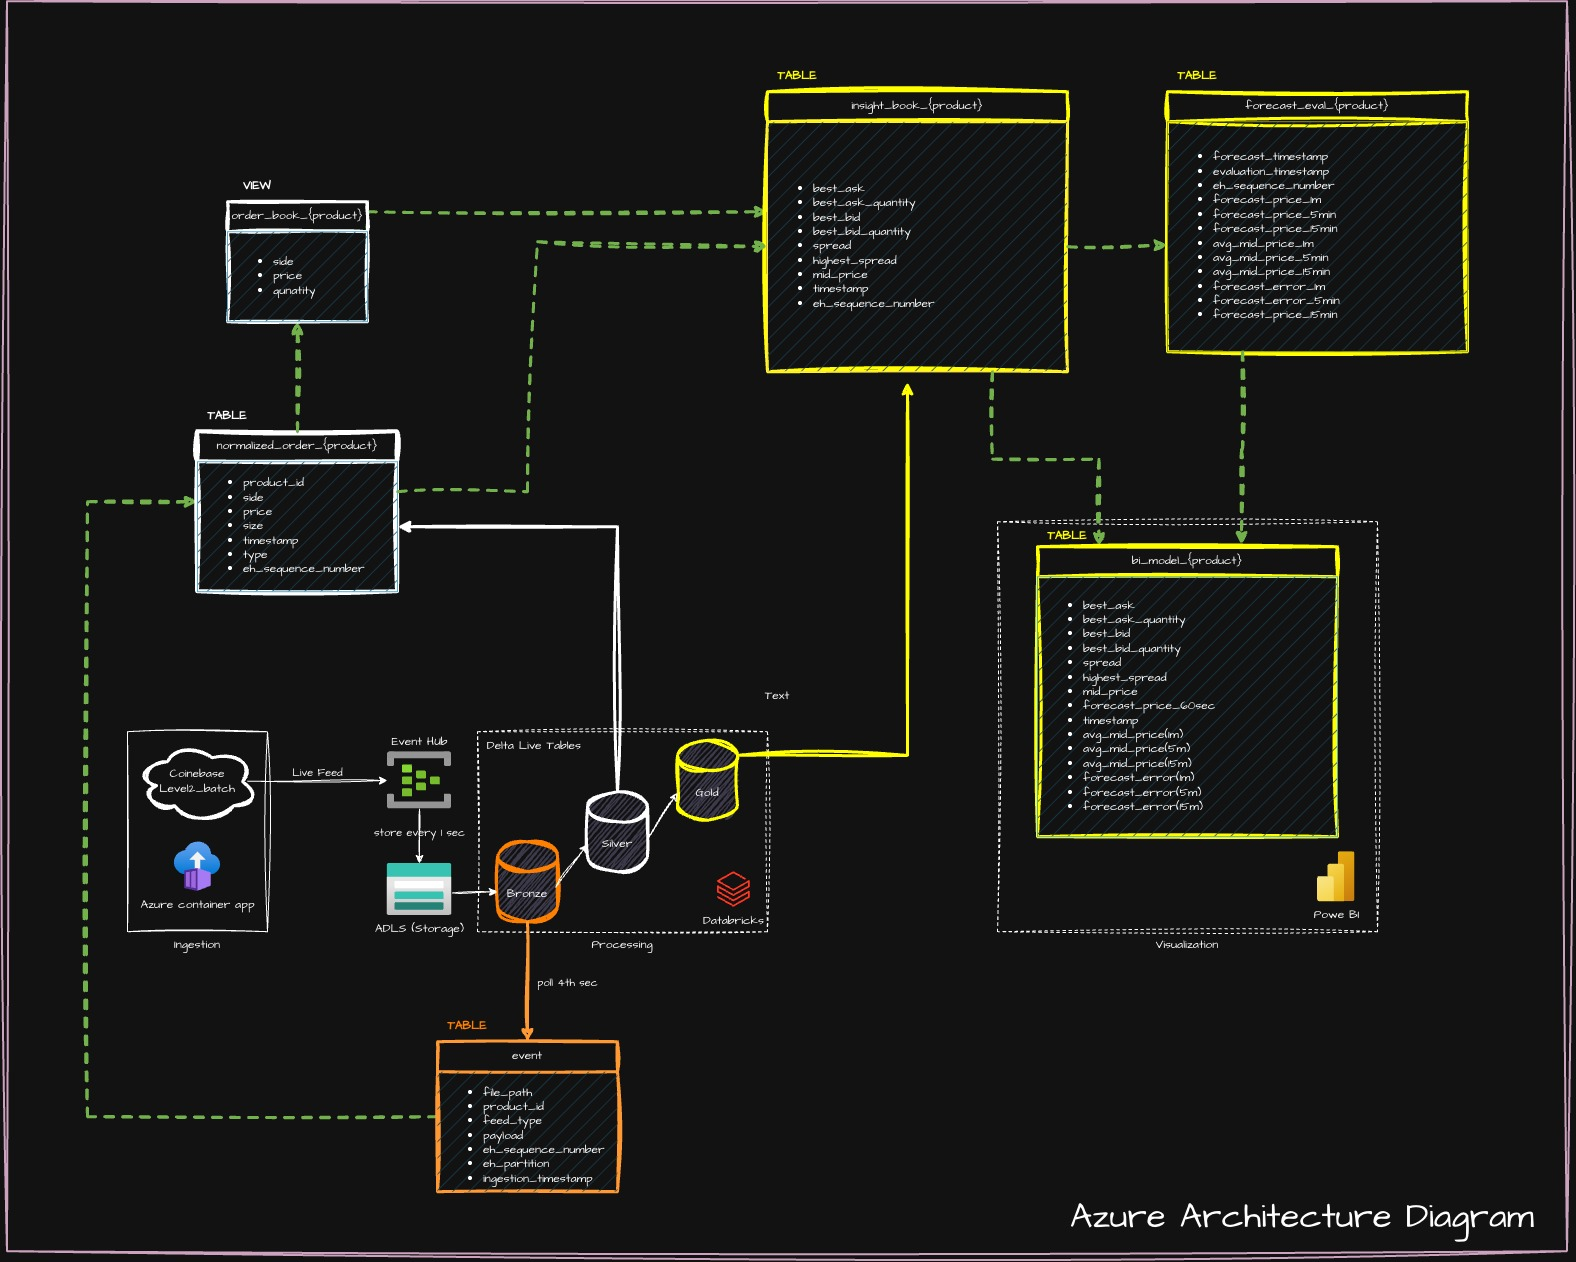
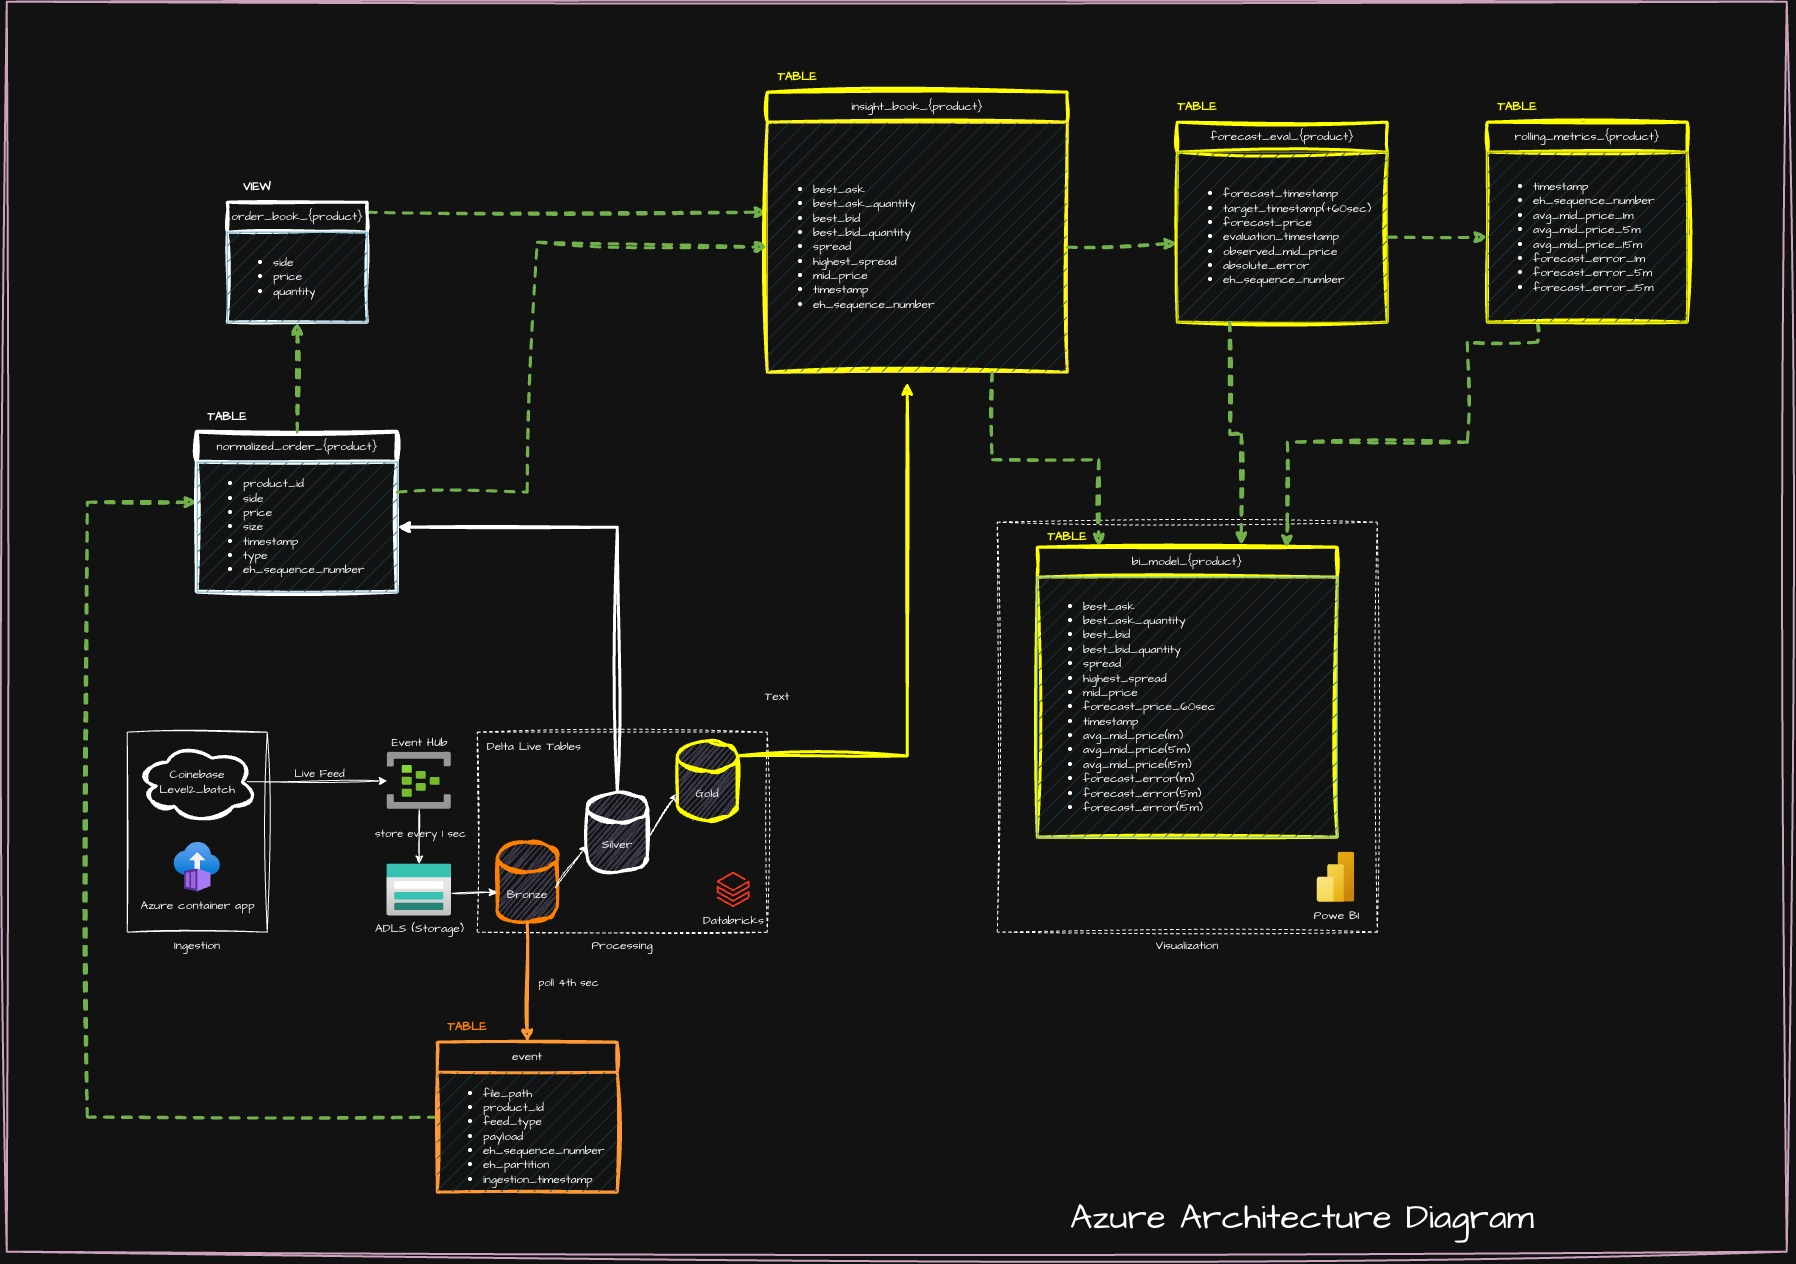
Update print interval to 4 seconds in CLI for improved responsiveness

diff --git a/src/marketdata/cli.py b/src/marketdata/cli.py
@@ -20,7 +20,7 @@ from .bronze.feed import CoinbaseFeed
 from .pipeline import Pipeline
 from .silver.normalize import parse_message
 
-PRINT_INTERVAL_SECONDS = 5
+PRINT_INTERVAL_SECONDS = 4
 CONSUMER_POLL_SECONDS = 4
 CONSUMER_OBJECT_BATCH_SIZE = 8
 

diff --git a/docs/azure-architecture.md b/docs/azure-architecture.md
@@ -63,15 +63,19 @@ schedule. The five-second refresh requirement from Part 1 does not apply here.
   Emit one observation per complete feed message, not one per normalized
   price-level row, to avoid intermediate and inconsistent book snapshots.
 6. For each forecast origin, the forecasting process writes one row to
-  `gold.forecast_eval_{product}` with 1-, 5-, and 15-minute forecasts and the
-  time-weighted rolling mid-price averages available at that origin. When
-  valid observations arrive at or after each horizon target, it calculates
-  the absolute forecast error and updates the corresponding error field and
-  `evaluation_timestamp`. Errors for horizons not yet reached remain null.
+  `gold.forecast_eval_{product}` with one 60-second-ahead prediction and its
+  target timestamp. At the first valid observation at or after the target,
+  it records the observed mid-price, absolute forecast error, and evaluation
+  timestamp. Evaluation fields remain null until the forecast is scored.
+  For each metric observation, it also writes
+  `gold.rolling_metrics_{product}` with time-weighted rolling mid-price
+  averages and mean absolute forecast errors over trailing 1-, 5-, and
+  15-minute windows.
 7. Power BI or another consumer queries the Gold tables through Databricks SQL.
   It can show current observations from `gold.insight_book_{product}` and
-  forecasts, averages, and evaluated errors from
-  `gold.forecast_eval_{product}`. Serving can be scheduled or batched.
+  individual predictions and evaluated errors from
+  `gold.forecast_eval_{product}`, plus rolling averages and forecast accuracy
+  from `gold.rolling_metrics_{product}`. Serving can be scheduled or batched.
 
 A Bronze envelope can look like:
 
@@ -101,16 +105,30 @@ containing the message.
 | `silver.normalized_order_{product}` | One normalized price-level change | `side`, `price`, `size`<br>`timestamp`, `type`<br>`eh_sequence_number` |
 | `silver.order_book_{product}` | One current price level per product/side/price | `side`, `price`, `quantity` |
 | `gold.insight_book_{product}` | One metric observation per processed event | `eh_sequence_number`, `timestamp`<br>`best_bid`, `best_bid_quantity`<br>`best_ask`, `best_ask_quantity`<br>`spread`, `highest_spread`, `mid_price` |
-| `gold.forecast_eval_{product}` | One forecast record per forecast origin | `eh_sequence_number`, `forecast_timestamp`, `evaluation_timestamp`<br>`forecast_price_1m`, `forecast_price_5min`, `forecast_price_15min`<br>`avg_mid_price_1m`, `avg_mid_price_5min`, `avg_mid_price_15min`<br>`forecast_error_1m`, `forecast_error_5min`, `forecast_error_15min` |
+| `gold.forecast_eval_{product}` | One 60-second-ahead forecast per forecast origin | `eh_sequence_number`, `forecast_timestamp`, `target_timestamp`<br>`forecast_price`, `evaluation_timestamp`, `observed_mid_price`, `absolute_error` |
+| `gold.rolling_metrics_{product}` | One rolling-metric record per metric observation | `eh_sequence_number`, `timestamp`<br>`avg_mid_price_1m`, `avg_mid_price_5min`, `avg_mid_price_15min`<br>`forecast_error_1m`, `forecast_error_5min`, `forecast_error_15min` |
 
 `gold.insight_book_{product}` stores observations, not rolling-window
-averages. Each row in `gold.forecast_eval_{product}` stores the three
-predictions and rolling mid-price averages as of `forecast_timestamp`.
+averages. Each row in `gold.forecast_eval_{product}` stores one prediction
+made at `forecast_timestamp` for `target_timestamp = forecast_timestamp +
+60 seconds`.
 
-Evaluate each horizon at the first valid observed mid-price at or after its
-target time. Populate that horizon's forecast error when evaluated; leave
-unevaluated errors null. `evaluation_timestamp` records when the most recently
-evaluated horizon was scored and advances as later horizons become due.
+Evaluate the forecast at the first valid observed mid-price at or after its
+target time. Set `evaluation_timestamp` to that observation's timestamp and
+`absolute_error` to `abs(forecast_price - observed_mid_price)`. Leave
+`evaluation_timestamp`, `observed_mid_price`, and `absolute_error` null while
+the forecast is pending. If observations are delayed, evaluation can occur
+later than the target; retain both timestamps to make that delay visible.
+
+`gold.rolling_metrics_{product}` stores metrics as of `timestamp`. The
+mid-price averages are time-weighted over their respective trailing windows.
+Each `forecast_mae_*` is the arithmetic mean of absolute errors whose
+`evaluation_timestamp` falls within that trailing window. All predictions
+being scored have the same 60-second horizon: the 1-, 5-, and 15-minute labels
+describe evaluation-history windows, not additional forecast horizons.
+Pending forecasts do not contribute. A window with no evaluated forecasts
+has a null MAE; during startup, use available errors without waiting for a
+full window of history.
 
 Assume each Coinbase snapshot contains the product's complete, non-empty
 bid/ask book. Updates contain changed levels; size zero removes a price level.
@@ -136,7 +154,8 @@ checkpoint containing each product's book and metric state, plus the last
 committed `eh_sequence_number` per Event Hubs partition. Commit state and
 progress together so replay neither skips accepted broker records nor applies
 the same record twice. Preserve recent valid mid-price samples, pending
-forecasts, and highest-spread state.
+forecasts, evaluated errors from the trailing 15 minutes, and highest-spread
+state.
 
 ## Azure Services
 
